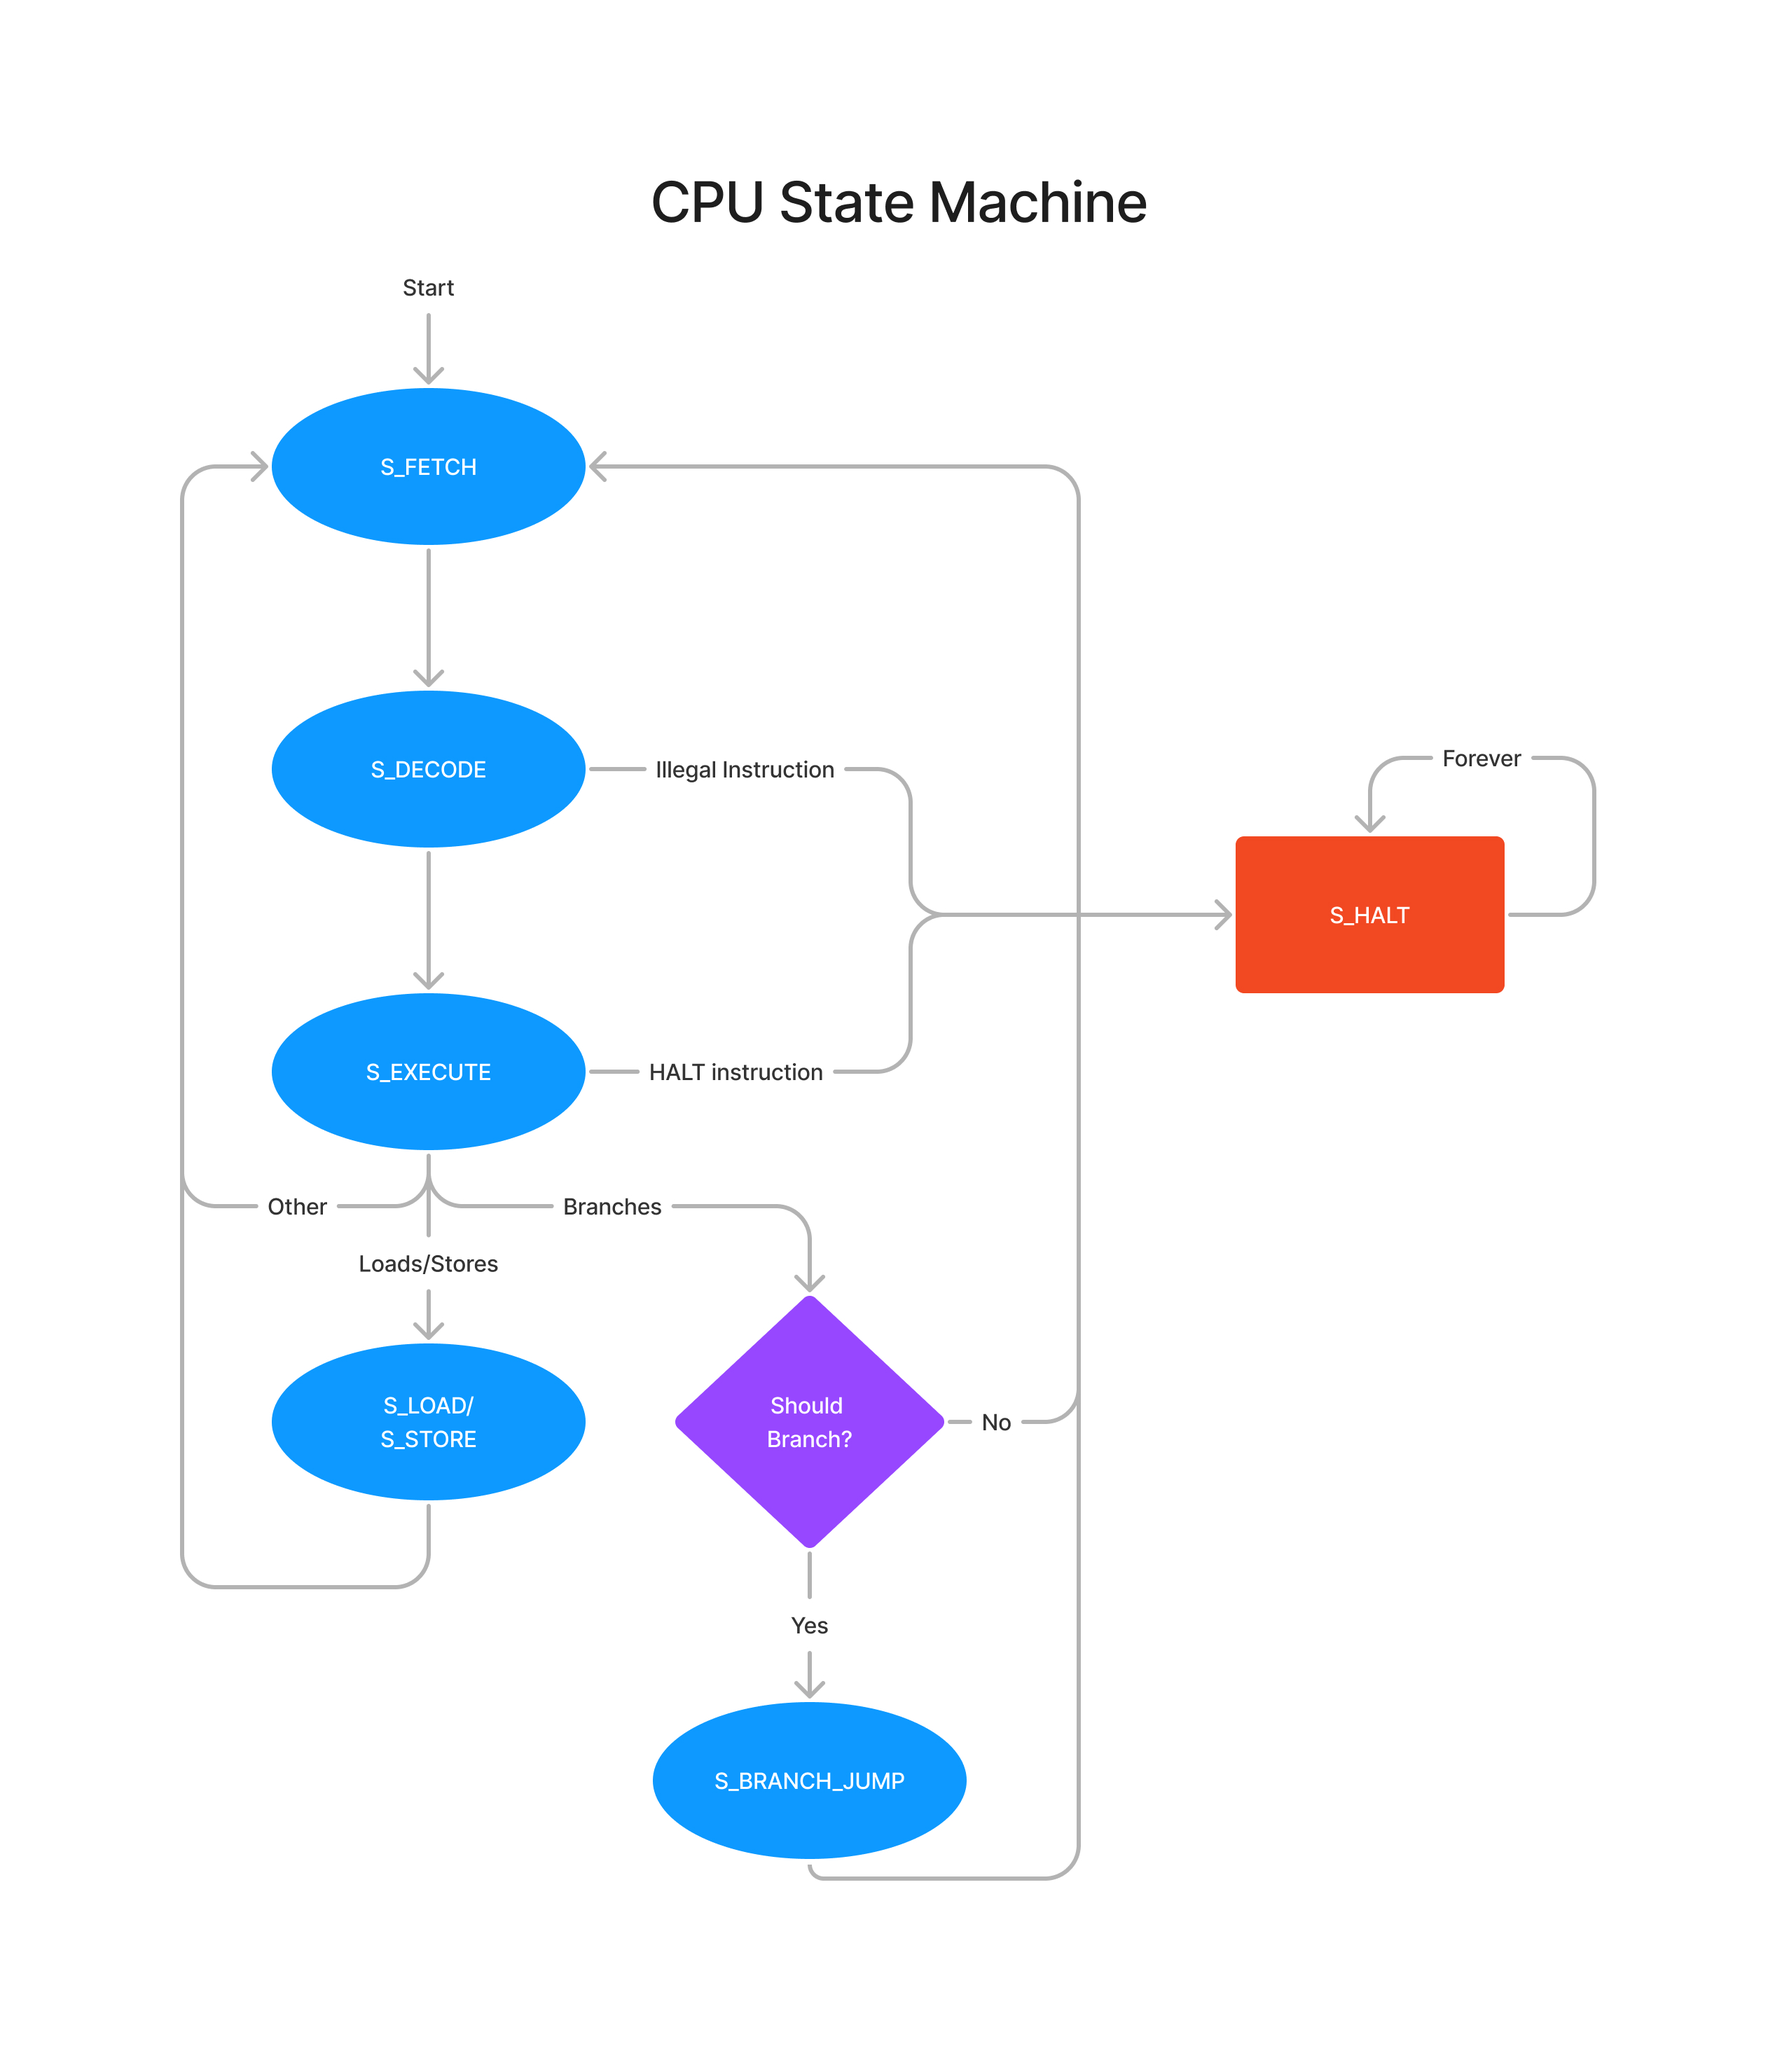
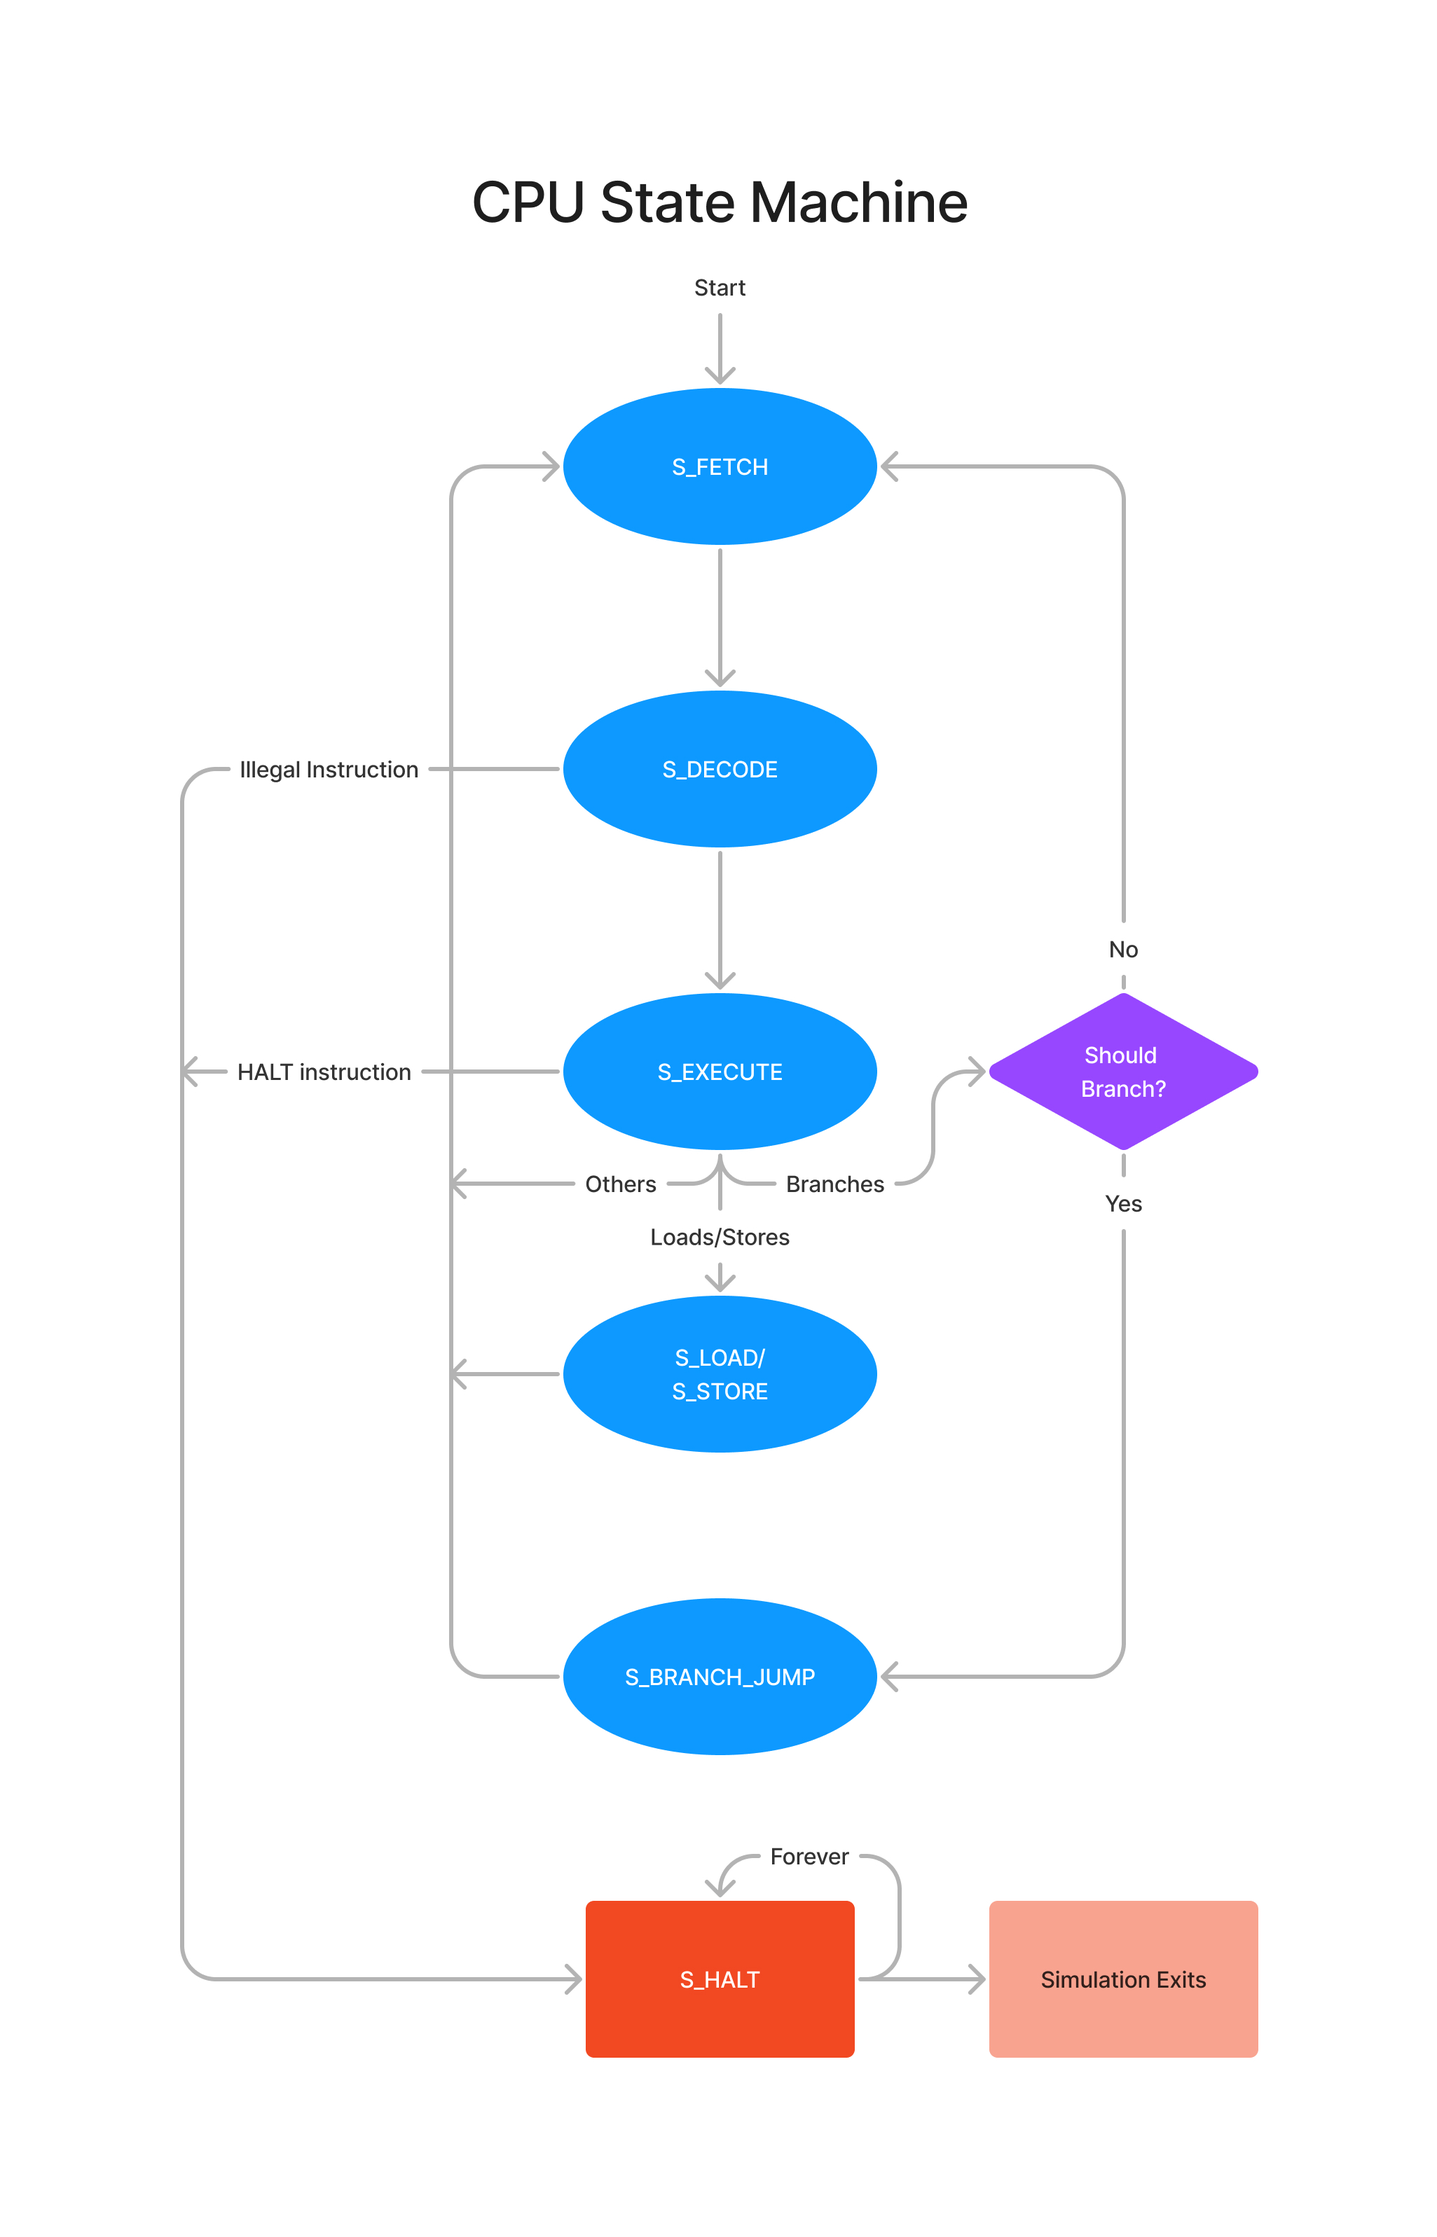
docs: add documentation for CPU

diff --git a/labs/03_rv32i_part2/docs/CPU.md b/labs/03_rv32i_part2/docs/CPU.md
@@ -1,0 +1,57 @@
+# CPU Documentation
+
+## Implementation
+
+### State Machine
+
+The CPU's main state machine lives in `rv32i_multicycle_core.sv`. Each state is active for exactly one clock cycle, then transitions to another state (it is legal for a state to transition back to itself in some limited cases, such as `S_HALT` and `S_ERROR`). The states are as follows:
+
+![CPU finite state machine diagram](cpu_fsm.jpg)
+
+|     **Name**    |                            **Description**                            |                                       **Register File**                                      |       **Memory Access**      |                **ALU**               |                         **Other**                         |                                                                **Notes**                                                                |
+|:---------------:|:---------------------------------------------------------------------:|:--------------------------------------------------------------------------------------------:|:----------------------------:|:------------------------------------:|:---------------------------------------------------------:|:---------------------------------------------------------------------------------------------------------------------------------------:|
+|    `S_FETCH`    | Fetch instruction at `PC` from memory                                 | -                                                                                            | Read @ `PC`                  | `PC + 4`                             | `PC_old = PC; PC = PC + 4`. Instruction register updates. |                                                                                                                                         |
+|    `S_DECODE`   | Decode instruction                                                    | -                                                                                            | -                            | -                                    | Instruction decoder enabled, all outputs update.          | Register File reading is directly connceted to the `rs1` and `rs2` outputs of the instruction decoder, so this triggers register reads. |
+|   `S_EXECUTE`   | Execute (first step of) instruction                                   | Reads `rs1` and `rs2` (if present). Writes to `rd` (for I-Type, R-Type, `jal`/`jalr`, `lui`) | -                            | Depends on instruction               | `PC = alu_result (= rs1/PC + imm)` for `jal`/`jalr`       | All instructions start with `S_EXECUTE`, but may involve more than one state.                                                           |
+| `S_BRANCH_JUMP` | For taken branches, calculate the target address and execute the jump | -                                                                                            | -                            | Calculate target address: `PC + imm` | `PC = alu_result (= PC + imm)`                            |                                                                                                                                         |
+|     `S_LOAD`    | For load instructions, load the data from memory                      | Stores data read from memory into `rd`.                                                      | Read @ target address        | -                                    | -                                                         | Target address stored is calculated during `S_EXECUTE`, stored in non-architectural register (`load_store_address`).                    |
+|    `S_STORE`    | For store instructions, store the data into memory                    | -                                                                                            | Store `rs2` @ target address | -                                    | -                                                         | Target address stored is calculated during `S_EXECUTE`, stored in non-architectural register ( `load_store_address` ).                  |
+|     `S_HALT`    | Stop execution immediately. No further activity occurs.               | -                                                                                            | -                            | -                                    | -                                                         | Never leaves this state. In simulation, immediately exits.                                                                              |
+|    `S_ERROR`    | Encountered a fatal error. No further activity occurs.                | -                                                                                            | -                            | -                                    | -                                                         | Never leaves this state. Somewhat duplicative/inconsistent with `PANIC` macro (see below).                                              |
+
+### Data Flow Diagram
+
+TODO
+
+### `PANIC`
+
+The `PANIC` macro is used throughout the CPU when an unrecoverable error has ocurred (ex. an illegal instruction). In simulation, this prints an error message and ends the simulation. The behavior in synthesis is undefined.
+
+## Instructions
+
+This CPU supports the entire `rv32i` instruction set, _except_ for `lh[u]`, `lb[u]`, `sh`, and `sb`. It also supports the following non-standard instructions:
+
+|      op     | funct3 | funct7 | Type | Instruction          | Description                    | Operation              | Notes                                |
+|:-----------:|:------:|--------|------|----------------------|--------------------------------|------------------------|--------------------------------------|
+| 0000000 (0) |   000  | -      | N/A  | `d.hlt`              | Stop CPU execution immediately | `HALT`                 | Instruction is all `0`s              |
+| 0000000 (0) |   100  | -      | I    | `d.aeq rd, rs1, imm` | Assert equal                   | `if (rs1 != imm) HALT` | `rd` is ignored, not yet implemented |
+
+## Input and Output
+
+In simulation, upon halting, the CPU will print the value of the `a0` register as a return value. For a C program compiled/assembled with the default options, this will be the return value of `main`.
+
+Additionally, if an `ARGV` option is provided to `make` for any `[waves|test]_rv32i[_c]_<name>` target, `a0` will be initialized with that value as an argument. If no argument is provided, it will default to zero. For example:
+
+```c
+// csrc/double_an_int.c
+int main(int argv) {
+	// Return twice argv
+	return argv + argv;
+}
+```
+
+```bash
+$ make test_rv32i_c_double_an_int ARGV=4
+... lots of output ...
+Halting! Program Returned:         8
+```
